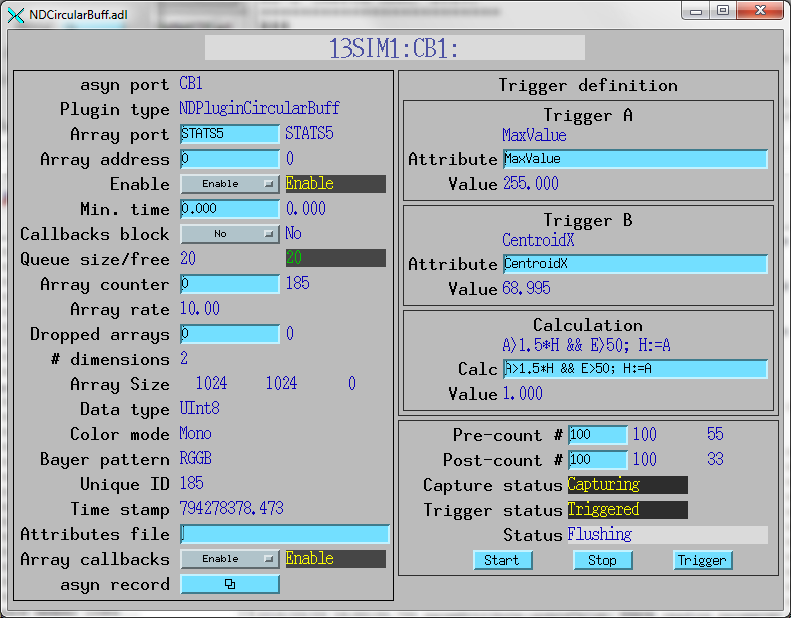
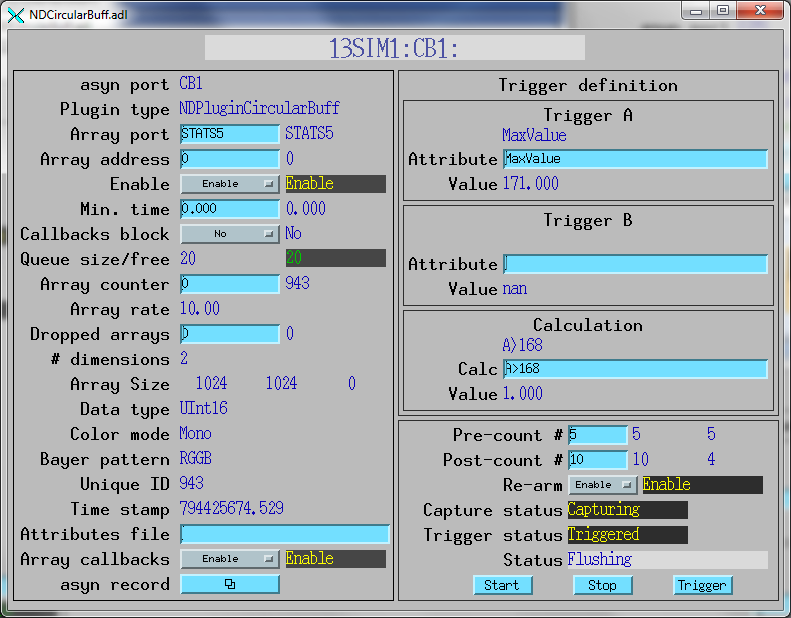
Renamed Retrigger to ReArm

diff --git a/ADApp/pluginSrc/NDPluginCircularBuff.cpp b/ADApp/pluginSrc/NDPluginCircularBuff.cpp
@@ -96,7 +96,7 @@ void NDPluginCircularBuff::processCallbacks(NDArray *pArray)
      * It is called with the mutex already locked.  It unlocks it during long calculations when private
      * structures don't need to be protected.
      */
-    int scopeControl, preCount, postCount, currentImage, currentPostCount, softTrigger, reTrigger;
+    int scopeControl, preCount, postCount, currentImage, currentPostCount, softTrigger, reArm;
     NDArray *pArrayCpy = NULL;
     NDArrayInfo arrayInfo;
     int triggered = 0;
@@ -115,7 +115,7 @@ void NDPluginCircularBuff::processCallbacks(NDArray *pArray)
     getIntegerParam(NDPluginCircularBuffCurrentImage, &currentImage);
     getIntegerParam(NDPluginCircularBuffPostCount,    &currentPostCount);
     getIntegerParam(NDPluginCircularBuffSoftTrigger,  &softTrigger);
-    getIntegerParam(NDPluginCircularBuffRetrigger,    &reTrigger);
+    getIntegerParam(NDPluginCircularBuffReArm,        &reArm);
 
     // Are we running?
     if (scopeControl) {
@@ -187,7 +187,7 @@ void NDPluginCircularBuff::processCallbacks(NDArray *pArray)
 
         // Stop recording once we have reached the post-trigger count, wait for a restart
         if (currentPostCount >= postCount){
-          if (reTrigger) {
+          if (reArm) {
             previousTrigger_ = 0;
             // Set the status to buffer filling
             setIntegerParam(NDPluginCircularBuffControl, 1);
@@ -402,7 +402,7 @@ NDPluginCircularBuff::NDPluginCircularBuff(const char *portName, int queueSize, 
     createParam(NDPluginCircularBuffTriggerBValString,    asynParamFloat64,    &NDPluginCircularBuffTriggerBVal);
     createParam(NDPluginCircularBuffTriggerCalcString,    asynParamOctet,      &NDPluginCircularBuffTriggerCalc);
     createParam(NDPluginCircularBuffTriggerCalcValString, asynParamFloat64,    &NDPluginCircularBuffTriggerCalcVal);
-    createParam(NDPluginCircularBuffRetriggerString,      asynParamInt32,      &NDPluginCircularBuffRetrigger);
+    createParam(NDPluginCircularBuffReArmString,          asynParamInt32,      &NDPluginCircularBuffReArm);
     createParam(NDPluginCircularBuffPreTriggerString,     asynParamInt32,      &NDPluginCircularBuffPreTrigger);
     createParam(NDPluginCircularBuffPostTriggerString,    asynParamInt32,      &NDPluginCircularBuffPostTrigger);
     createParam(NDPluginCircularBuffCurrentImageString,   asynParamInt32,      &NDPluginCircularBuffCurrentImage);

diff --git a/ADApp/pluginSrc/NDPluginCircularBuff.h b/ADApp/pluginSrc/NDPluginCircularBuff.h
@@ -22,7 +22,7 @@ typedef struct NDCircularBuff {
 #define NDPluginCircularBuffTriggerBValString        "CIRCULAR_BUFF_TRIGGER_B_VAL" /* (asynFloat64,      r/o) Trigger B value */
 #define NDPluginCircularBuffTriggerCalcString        "CIRCULAR_BUFF_TRIGGER_CALC"  /* (asynOctetWrite,   r/w) Trigger calculation expression */
 #define NDPluginCircularBuffTriggerCalcValString     "CIRCULAR_BUFF_TRIGGER_CALC_VAL" /* (asynFloat64,   r/o) Trigger calculation value */
-#define NDPluginCircularBuffRetriggerString          "CIRCULAR_BUFF_RETRIGGER"     /* (asynInt32,        r/w) Retrigger */
+#define NDPluginCircularBuffReArmString              "CIRCULAR_BUFF_REARM"         /* (asynInt32,        r/w) Re-arm when complete  */
 #define NDPluginCircularBuffPreTriggerString         "CIRCULAR_BUFF_PRE_TRIGGER"   /* (asynInt32,        r/w) Number of pre-trigger images */
 #define NDPluginCircularBuffPostTriggerString        "CIRCULAR_BUFF_POST_TRIGGER"  /* (asynInt32,        r/w) Number of post-trigger images */
 #define NDPluginCircularBuffCurrentImageString       "CIRCULAR_BUFF_CURRENT_IMAGE" /* (asynInt32,        r/o) Number of the current image */
@@ -59,7 +59,7 @@ protected:
     int NDPluginCircularBuffTriggerBVal;
     int NDPluginCircularBuffTriggerCalc;
     int NDPluginCircularBuffTriggerCalcVal;
-    int NDPluginCircularBuffRetrigger;
+    int NDPluginCircularBuffReArm;
     int NDPluginCircularBuffPreTrigger;
     int NDPluginCircularBuffPostTrigger;
     int NDPluginCircularBuffCurrentImage;
